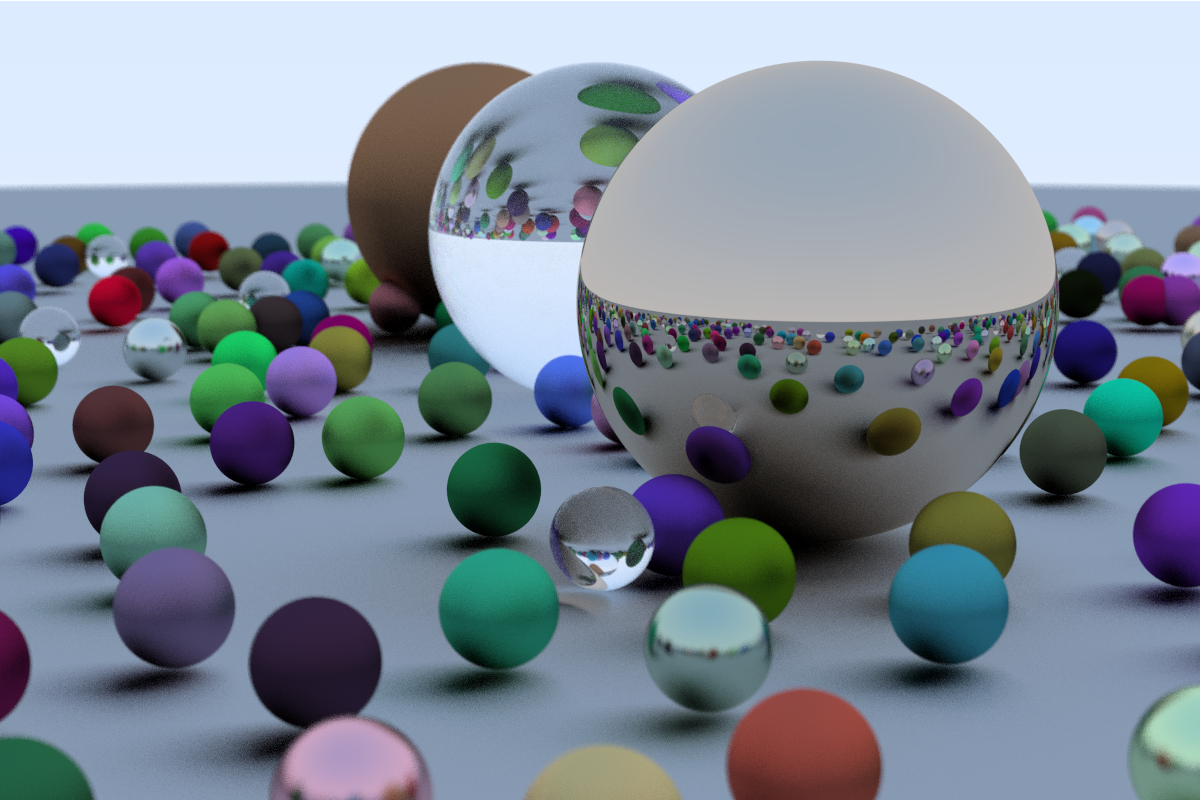
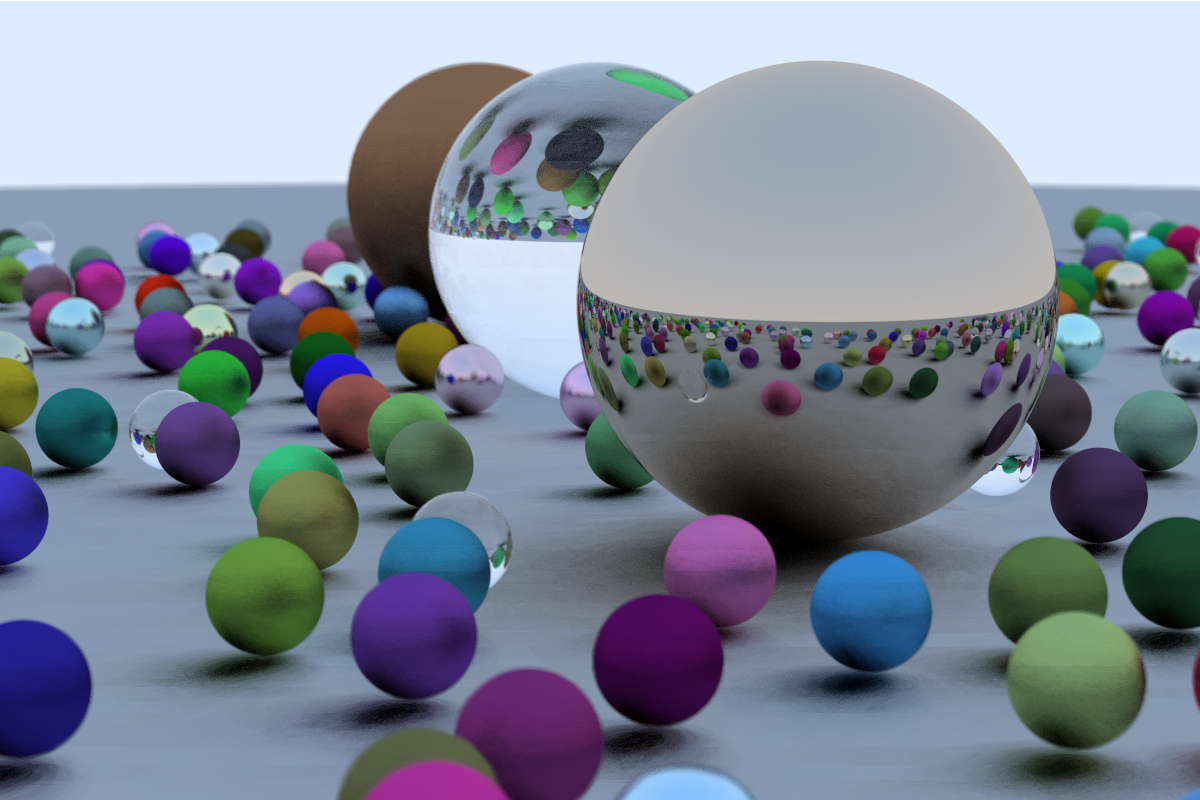
Update README.md

diff --git a/README.md b/README.md
@@ -1,14 +1,32 @@
 # Go Raytracing in One Weekend
 
+[![Go Version](https://img.shields.io/github/go-mod/go-version/killerasus/GoRTIW)](https://golang.org/)
+
 This is an implementation of [Ray Tracing in One Weekend - The Book Series](https://raytracing.github.io/) using Go and [go-glm](https://github.com/engoengine/glm).
 
-As I am learning Go, I decided to translate the book's C++ implementation to Go. The objective is to compare both implementations, trying firstly to accomplish each chapter's objectives, and secondly trying to optimize the result.
+> **Note**: This project is for learning Go, comparing C++/Go implementations, and exploring ray tracing fundamentals. The book doesn't aim for feature completeness.
 
 The current status of the code is shown below:
 
-| Chapter           | Result                  |
-| :---------------: | :---------------------: |
-| Book 1 Complete   | ![Result](output.png)   |
+| Chapter        | Status         | Output Preview      |
+|----------------|----------------|---------------------|
+| Book 1         | ✅ Complete    | [Screenshot](output.png) |
+| Book 2         | ❌ WIP         |  |
 
 As stated in the book, Ray Tracing in One Weekend does not aim to create a complete ray tracer (more of a path tracer). The following books add more functionalities to the ray tracer, making it feature complete by the end of the series.
 
+
+## 🚀 Build & Run
+```bash
+go build 
+
+./RTIW 
+```
+
+## 📚 References
+- [Book: Ray Tracing in One Weekend](https://raytracing.github.io/)
+- [go-glm Documentation](https://github.com/engoengine/glm)
+
+## 📄 License
+Apache 2.0 License © 2026 Your Name
+[See full license](LICENSE)
